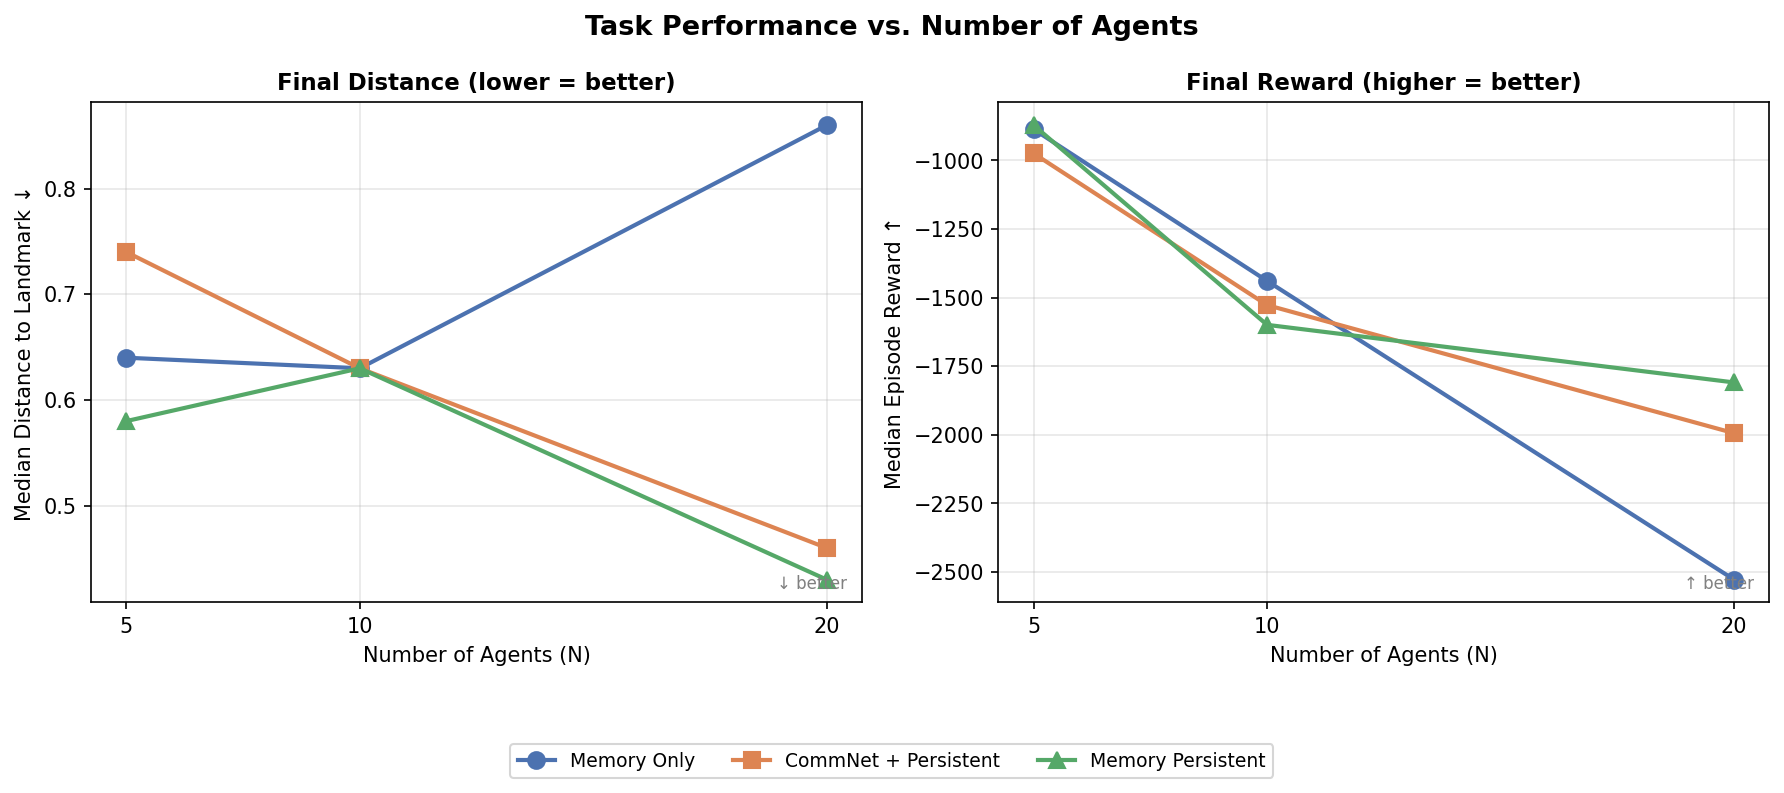
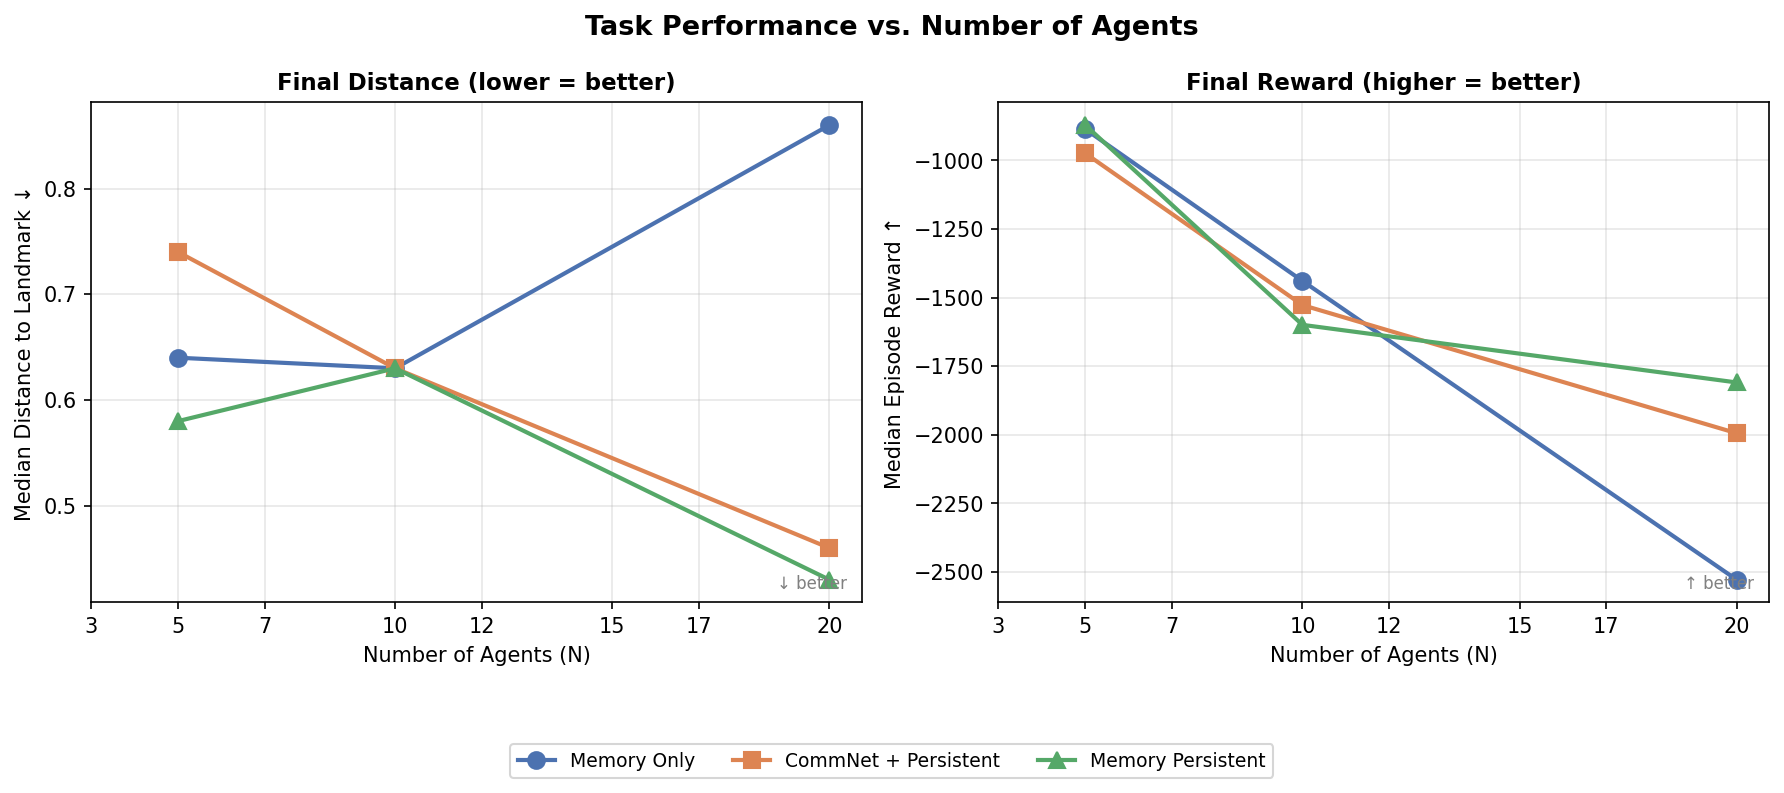
Add full N=3→20 scaling analysis with 8 agent counts
- Updated scaling_plots.py with data for N=3,5,7,10,12,15,17,20
- Added None-handling in plot_metric() and phase transition plot
  to gracefully skip missing data points
- Regenerated all three figures:
  fig1_performance.png — task metrics (dist/reward) vs N
  fig2_meme_metrics.png — Q1-Q5 memetic metrics vs N
  fig3_phase_transition.png — mutation structure + specialisation

Key findings captured in plots:
- commnet_persistent delta_sil spikes to 0.96-0.98 at N=10,12,20
- memory_only specialisation (between-agent var) spikes 10× at N=20
- Silhouette scores generally increase with N, showing clearer
  attractor formation at larger group sizes

diff --git a/new/memetic_foundation/analysis/scaling_plots.py b/new/memetic_foundation/analysis/scaling_plots.py
@@ -18,53 +18,54 @@ import numpy as np
 
 # ── Raw data ────────────────────────────────────────────────────────────────
 
-Ns = [5, 10, 20]
+Ns = [3, 5, 7, 10, 12, 15, 17, 20]
 
 # Median dist (lower = better). Bad seeds excluded via median robustness.
 perf_dist = {
-    "memory_only":            [0.640, 0.630, 0.860],
-    "commnet_persistent":     [0.740, 0.630, 0.460],
-    "memory_only_persistent": [0.580, 0.630, 0.430],
+    "memory_only":            [None, 0.640, None, 0.630, None, None, None, 0.860],
+    "commnet_persistent":     [None, 0.740, None, 0.630, None, None, None, 0.460],
+    "memory_only_persistent": [None, 0.580, None, 0.630, None, None, None, 0.430],
 }
 perf_rew = {
-    "memory_only":            [-886,  -1439, -2528],
-    "commnet_persistent":     [-974,  -1527, -1994],
-    "memory_only_persistent": [-871,  -1599, -1809],
+    "memory_only":            [None, -886,  None, -1439, None, None, None, -2528],
+    "commnet_persistent":     [None, -974,  None, -1527, None, None, None, -1994],
+    "memory_only_persistent": [None, -871,  None, -1599, None, None, None, -1809],
 }
 
 # Q1 — silhouette score (higher = clearer attractors)
+# N:               3      5      7      10     12     15     17     20
 q1_sil = {
-    "memory_only":            [0.260, 0.841, 0.715],
-    "commnet_persistent":     [0.211, 0.877, 0.649],
-    "memory_only_persistent": [0.727, 0.827, 0.860],
+    "memory_only":            [0.234, 0.260, 0.244, 0.841, 0.387, 0.851, 0.362, 0.715],
+    "commnet_persistent":     [0.303, 0.211, 0.435, 0.877, 0.861, 0.427, 0.583, 0.649],
+    "memory_only_persistent": [0.154, 0.727, 0.285, 0.827, 0.527, 0.304, 0.300, 0.860],
 }
 
 # Q2 — final pairwise cosine similarity (higher = more convergent)
 q2_sim = {
-    "memory_only":            [0.715, 0.731, 0.846],
-    "commnet_persistent":     [0.646, 0.699, 0.585],
-    "memory_only_persistent": [0.956, 0.835, 0.637],
+    "memory_only":            [0.619, 0.715, 0.636, 0.731, None,  None,  None,  0.846],
+    "commnet_persistent":     [0.636, 0.646, 0.657, 0.699, None,  None,  None,  0.585],
+    "memory_only_persistent": [0.690, 0.956, 0.739, 0.835, None,  None,  None,  0.637],
 }
 
 # Q4 — between-agent variance × 10^4 (higher = more specialisation)
 q4_bvar = {
-    "memory_only":            [0.00, 0.01, 0.24],   # scaled ×10^4 for readability
-    "commnet_persistent":     [0.00, 0.00, 0.01],
-    "memory_only_persistent": [0.04, 0.02, 0.02],
+    "memory_only":            [0.00, 0.00, 0.00, 0.01, None, None, None, 0.24],
+    "commnet_persistent":     [0.00, 0.00, 0.00, 0.00, None, None, None, 0.01],
+    "memory_only_persistent": [0.00, 0.04, 0.01, 0.02, None, None, None, 0.02],
 }
 
 # Q5 — delta silhouette (higher = more structured mutations)
 q5_dsil = {
-    "memory_only":            [0.176, 0.413, 0.260],
-    "commnet_persistent":     [0.211, 0.976, 0.963],
-    "memory_only_persistent": [0.950, 0.980, 0.944],
+    "memory_only":            [0.289, 0.176, 0.192, 0.413, 0.924, 0.855, 0.236, 0.260],
+    "commnet_persistent":     [0.405, 0.211, 0.237, 0.976, 0.967, 0.191, 0.292, 0.963],
+    "memory_only_persistent": [0.301, 0.950, 0.313, 0.980, 0.259, 0.926, 0.211, 0.944],
 }
 
 # Q5 — cross-agent delta correlation (higher = socially coupled mutations)
 q5_corr = {
-    "memory_only":            [-0.020, 0.065, 0.049],
-    "commnet_persistent":     [-0.008, 0.063, 0.069],
-    "memory_only_persistent": [ 0.172, 0.184, 0.019],
+    "memory_only":            [-0.017, -0.020,  -0.011, 0.065, 0.025, 0.116, -0.002, 0.049],
+    "commnet_persistent":     [ 0.084, -0.008,   0.000, 0.063, 0.174, 0.099,  0.043, 0.069],
+    "memory_only_persistent": [-0.029,  0.172,  -0.008, 0.184, 0.024, 0.021, -0.006, 0.019],
 }
 
 # ── Style ────────────────────────────────────────────────────────────────────
@@ -87,7 +88,9 @@ MARKERS = {
 
 def plot_metric(ax, data, ylabel, title, higher_better=True, hline=None):
     for v in data:
-        ax.plot(Ns, data[v], marker=MARKERS[v], color=COLORS[v],
+        xs = [n for n, val in zip(Ns, data[v]) if val is not None]
+        ys = [val for val in data[v] if val is not None]
+        ax.plot(xs, ys, marker=MARKERS[v], color=COLORS[v],
                 label=LABELS[v], linewidth=2, markersize=8)
     if hline is not None:
         ax.axhline(hline, color="gray", linestyle="--", linewidth=1, alpha=0.5)
@@ -214,8 +217,9 @@ ax.grid(True, alpha=0.3)
 # Right: specialisation divergence
 ax = axes[1]
 for v in q4_bvar:
-    vals_scaled = [x * 1e4 for x in q4_bvar[v]]  # back to raw ×10^4
-    ax.plot(Ns, vals_scaled, marker=MARKERS[v], color=COLORS[v],
+    xs = [n for n, val in zip(Ns, q4_bvar[v]) if val is not None]
+    vals_scaled = [val * 1e4 for val in q4_bvar[v] if val is not None]
+    ax.plot(xs, vals_scaled, marker=MARKERS[v], color=COLORS[v],
             label=LABELS[v], linewidth=2.5, markersize=10)
 ax.set_xticks(Ns)
 ax.set_xlabel("Number of Agents (N)", fontsize=11)
